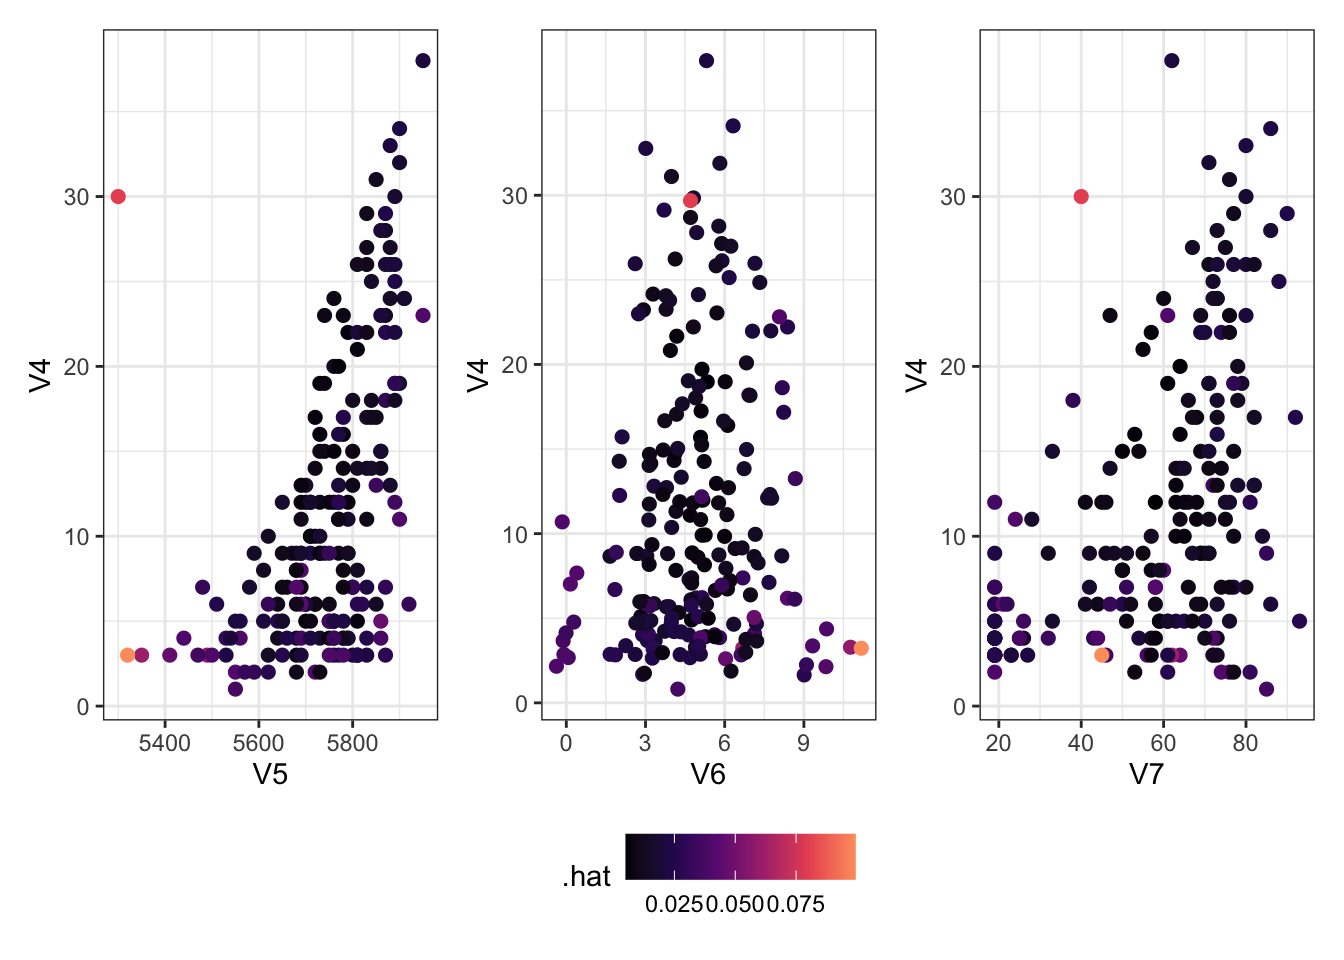
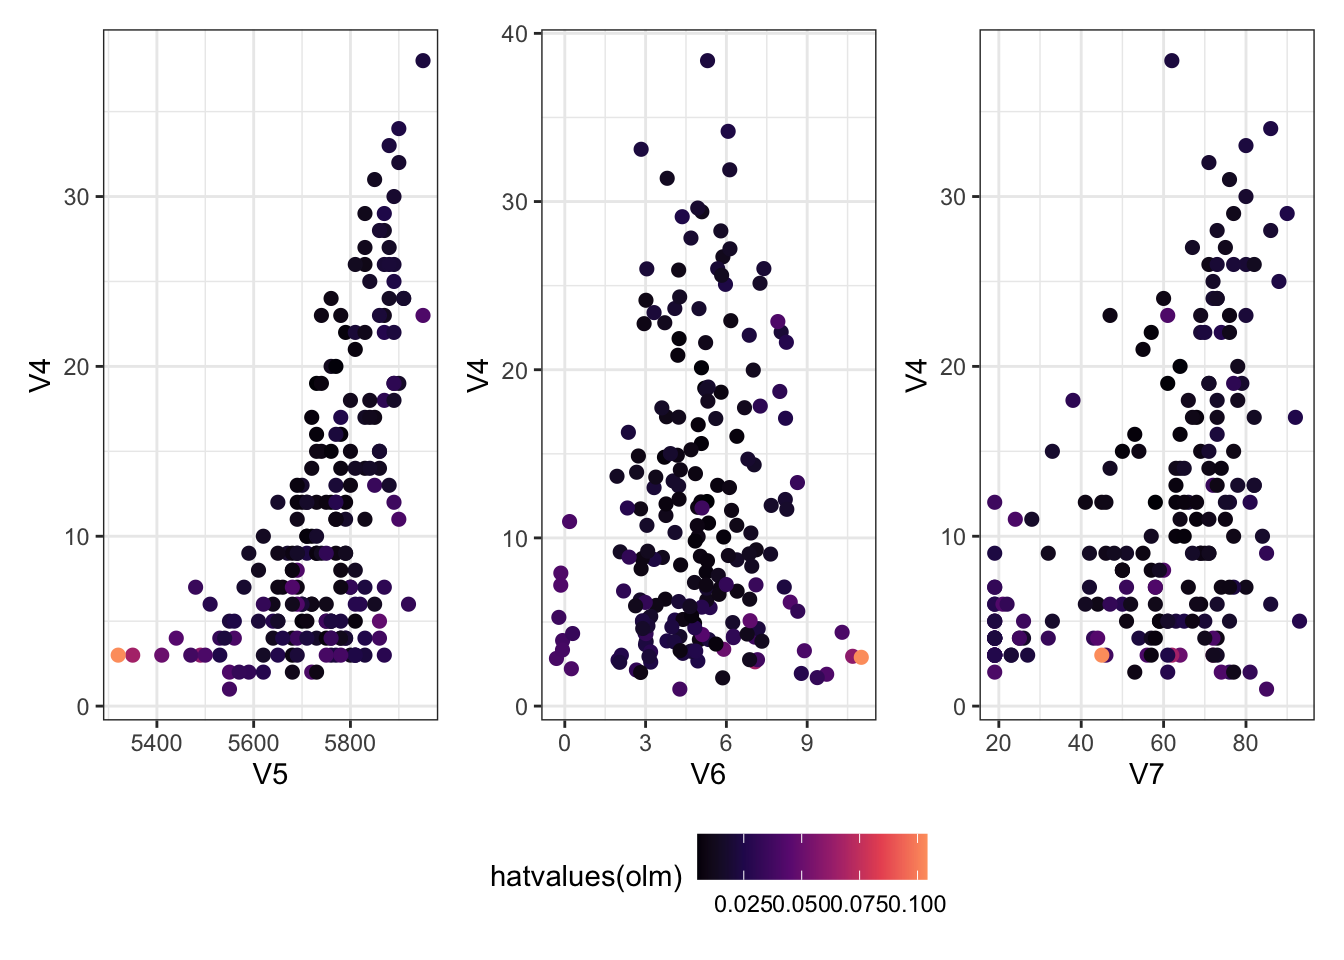
Set seeds for stable rendering; re-render

diff --git a/docs/Lb11-R_hat_resids_cook.html b/docs/Lb11-R_hat_resids_cook.html
@@ -512,7 +512,7 @@ Volvo 142E             1</code></pre>
 <div class="sourceCode cell-code" id="cb19"><pre class="sourceCode r code-with-copy"><code class="sourceCode r"><span id="cb19-1"><a href="#cb19-1" aria-hidden="true" tabindex="-1"></a><span class="fu">par</span>(<span class="at">mfrow =</span> <span class="fu">c</span>(<span class="dv">2</span>, <span class="dv">2</span>))</span>
 <span id="cb19-2"><a href="#cb19-2" aria-hidden="true" tabindex="-1"></a><span class="fu">plot</span>(mylm) <span class="co"># ?plot.lm</span></span></code><button title="Copy to Clipboard" class="code-copy-button"><i class="bi"></i></button></pre></div>
 <div class="cell-output-display">
-<p><img src="Lb11-R_hat_resids_cook_files/figure-html/unnamed-chunk-6-1.png" class="img-fluid" width="672"></p>
+<p><img src="Lb11-R_hat_resids_cook_files/figure-html/unnamed-chunk-7-1.png" class="img-fluid" width="672"></p>
 </div>
 </div>
 <p>You can access individual plots with the <code>which</code> argument.</p>
@@ -520,7 +520,7 @@ Volvo 142E             1</code></pre>
 <div class="sourceCode cell-code" id="cb20"><pre class="sourceCode r code-with-copy"><code class="sourceCode r"><span id="cb20-1"><a href="#cb20-1" aria-hidden="true" tabindex="-1"></a><span class="fu">par</span>(<span class="at">mfrow =</span> <span class="fu">c</span>(<span class="dv">2</span>, <span class="dv">3</span>))</span>
 <span id="cb20-2"><a href="#cb20-2" aria-hidden="true" tabindex="-1"></a><span class="fu">plot</span>(mylm, <span class="at">which =</span> <span class="dv">1</span><span class="sc">:</span><span class="dv">6</span>)</span></code><button title="Copy to Clipboard" class="code-copy-button"><i class="bi"></i></button></pre></div>
 <div class="cell-output-display">
-<p><img src="Lb11-R_hat_resids_cook_files/figure-html/unnamed-chunk-7-1.png" class="img-fluid" width="672"></p>
+<p><img src="Lb11-R_hat_resids_cook_files/figure-html/unnamed-chunk-8-1.png" class="img-fluid" width="672"></p>
 </div>
 </div>
 <p>99% of the time, the default plots are the ones you’ll want to look at. For teaching purposes, we’ll look at a few extra.</p>
@@ -573,7 +573,7 @@ Volvo 142E             1</code></pre>
 <span id="cb24-12"><a href="#cb24-12" aria-hidden="true" tabindex="-1"></a>    <span class="fu">geom_point</span>()</span>
 <span id="cb24-13"><a href="#cb24-13" aria-hidden="true" tabindex="-1"></a>g5 <span class="sc">+</span> g6 <span class="sc">+</span> g7</span></code><button title="Copy to Clipboard" class="code-copy-button"><i class="bi"></i></button></pre></div>
 <div class="cell-output-display">
-<p><img src="Lb11-R_hat_resids_cook_files/figure-html/unnamed-chunk-9-1.png" class="img-fluid" width="672"></p>
+<p><img src="Lb11-R_hat_resids_cook_files/figure-html/unnamed-chunk-10-1.png" class="img-fluid" width="672"></p>
 </div>
 </div>
 <p>Now let’s check some residuals!</p>
@@ -595,7 +595,7 @@ Volvo 142E             1</code></pre>
 <span id="cb25-8"><a href="#cb25-8" aria-hidden="true" tabindex="-1"></a>        <span class="fu">geom_point</span>(<span class="at">size =</span> <span class="dv">2</span>) <span class="sc">+</span></span>
 <span id="cb25-9"><a href="#cb25-9" aria-hidden="true" tabindex="-1"></a>        <span class="fu">geom_hline</span>(<span class="at">yintercept =</span> <span class="dv">0</span>, <span class="at">colour =</span> <span class="st">"grey"</span>)</span></code><button title="Copy to Clipboard" class="code-copy-button"><i class="bi"></i></button></pre></div>
 <div class="cell-output-display">
-<p><img src="Lb11-R_hat_resids_cook_files/figure-html/unnamed-chunk-10-1.png" class="img-fluid" width="672"></p>
+<p><img src="Lb11-R_hat_resids_cook_files/figure-html/unnamed-chunk-11-1.png" class="img-fluid" width="672"></p>
 </div>
 </div>
 <p>Which ones have a large hat value?</p>
@@ -615,7 +615,7 @@ Volvo 142E             1</code></pre>
 <span id="cb26-12"><a href="#cb26-12" aria-hidden="true" tabindex="-1"></a>    <span class="fu">scale_colour_viridis_c</span>(<span class="at">option =</span> <span class="dv">2</span>, <span class="at">end =</span> <span class="fl">0.8</span>) <span class="sc">&amp;</span></span>
 <span id="cb26-13"><a href="#cb26-13" aria-hidden="true" tabindex="-1"></a>    <span class="fu">theme</span>(<span class="at">legend.position =</span> <span class="st">"bottom"</span>)</span></code><button title="Copy to Clipboard" class="code-copy-button"><i class="bi"></i></button></pre></div>
 <div class="cell-output-display">
-<p><img src="Lb11-R_hat_resids_cook_files/figure-html/unnamed-chunk-11-1.png" class="img-fluid" width="672"></p>
+<p><img src="Lb11-R_hat_resids_cook_files/figure-html/unnamed-chunk-12-1.png" class="img-fluid" width="672"></p>
 </div>
 </div>
 </section>
@@ -642,7 +642,7 @@ Volvo 142E             1</code></pre>
 <span id="cb27-17"><a href="#cb27-17" aria-hidden="true" tabindex="-1"></a>    <span class="fu">scale_colour_viridis_c</span>(<span class="at">option =</span> <span class="dv">2</span>, <span class="at">end =</span> <span class="fl">0.8</span>) <span class="sc">&amp;</span></span>
 <span id="cb27-18"><a href="#cb27-18" aria-hidden="true" tabindex="-1"></a>    <span class="fu">theme</span>(<span class="at">legend.position =</span> <span class="st">"bottom"</span>)</span></code><button title="Copy to Clipboard" class="code-copy-button"><i class="bi"></i></button></pre></div>
 <div class="cell-output-display">
-<p><img src="Lb11-R_hat_resids_cook_files/figure-html/unnamed-chunk-12-1.png" class="img-fluid" width="672"></p>
+<p><img src="Lb11-R_hat_resids_cook_files/figure-html/unnamed-chunk-13-1.png" class="img-fluid" width="672"></p>
 </div>
 </div>
 </section>
@@ -652,7 +652,7 @@ Volvo 142E             1</code></pre>
 <div class="sourceCode cell-code" id="cb28"><pre class="sourceCode r code-with-copy"><code class="sourceCode r"><span id="cb28-1"><a href="#cb28-1" aria-hidden="true" tabindex="-1"></a><span class="fu">par</span>(<span class="at">mfrow =</span> <span class="fu">c</span>(<span class="dv">2</span>, <span class="dv">2</span>), <span class="at">mar =</span> <span class="fu">rep</span>(<span class="dv">2</span>, <span class="dv">4</span>))</span>
 <span id="cb28-2"><a href="#cb28-2" aria-hidden="true" tabindex="-1"></a><span class="fu">plot</span>(<span class="fu">lm</span>(V4 <span class="sc">~</span> ., <span class="at">data =</span> newzone))</span></code><button title="Copy to Clipboard" class="code-copy-button"><i class="bi"></i></button></pre></div>
 <div class="cell-output-display">
-<p><img src="Lb11-R_hat_resids_cook_files/figure-html/unnamed-chunk-13-1.png" class="img-fluid" width="672"></p>
+<p><img src="Lb11-R_hat_resids_cook_files/figure-html/unnamed-chunk-14-1.png" class="img-fluid" width="672"></p>
 </div>
 <div class="sourceCode cell-code" id="cb29"><pre class="sourceCode r code-with-copy"><code class="sourceCode r"><span id="cb29-1"><a href="#cb29-1" aria-hidden="true" tabindex="-1"></a>newzone[<span class="fu">row.names</span>(newzone) <span class="sc">%in%</span> <span class="fu">c</span>(<span class="dv">1</span>, <span class="dv">58</span>, <span class="dv">243</span>), ]</span></code><button title="Copy to Clipboard" class="code-copy-button"><i class="bi"></i></button></pre></div>
 <div class="cell-output cell-output-stdout">

diff --git a/docs/L14-Nonlinear.html b/docs/L14-Nonlinear.html
@@ -392,7 +392,7 @@ y = 2 + \frac{1}{5}x^2 - 8\log(x) - 0.005x^3 + 20\sin\left(\frac{x}{2}\right) + 
 </div><div class="column" style="width:50%;">
 <div class="cell">
 <div class="cell-output-display">
-<p><img src="L14-Nonlinear_files/figure-html/unnamed-chunk-1-1.png" class="img-fluid" width="432"></p>
+<p><img src="L14-Nonlinear_files/figure-html/unnamed-chunk-2-1.png" class="img-fluid" width="432"></p>
 </div>
 </div>
 </div>
@@ -438,7 +438,7 @@ x_1 = x;\; x_2 = x^2;\; x_3 = x^3;\;...
 </div><div class="column" style="width:50%;">
 <div class="cell">
 <div class="cell-output-display">
-<p><img src="L14-Nonlinear_files/figure-html/unnamed-chunk-2-1.png" class="img-fluid" width="432"></p>
+<p><img src="L14-Nonlinear_files/figure-html/unnamed-chunk-3-1.png" class="img-fluid" width="432"></p>
 </div>
 </div>
 </div>
@@ -479,7 +479,7 @@ y = \beta_2x^2
 </div><div class="column" style="width:50%;">
 <div class="cell">
 <div class="cell-output-display">
-<p><img src="L14-Nonlinear_files/figure-html/unnamed-chunk-4-1.png" class="img-fluid" width="432"></p>
+<p><img src="L14-Nonlinear_files/figure-html/unnamed-chunk-5-1.png" class="img-fluid" width="432"></p>
 </div>
 </div>
 </div>
@@ -513,7 +513,7 @@ Model 2: dist ~ x1 + x2
 <p>True model: <span class="math inline">\(f(x) = 2 + 25x + 5x^2 - x^3\)</span> (cubic), Var(<span class="math inline">\(\epsilon\)</span>) = 40</p>
 <div class="cell">
 <div class="cell-output-display">
-<p><img src="L14-Nonlinear_files/figure-html/unnamed-chunk-6-1.png" class="img-fluid" width="672"></p>
+<p><img src="L14-Nonlinear_files/figure-html/unnamed-chunk-7-1.png" class="img-fluid" width="672"></p>
 </div>
 </div>
 </section>

diff --git a/docs/L05-General_Regression.html b/docs/L05-General_Regression.html
@@ -543,7 +543,7 @@ F = \frac{MS(Reg|\hat\beta_0)}{MSE} = \frac{SS(Reg|\hat\beta_0)/(p-1)}{SSE/(n-p)
 <div class="sourceCode cell-code" id="cb8"><pre class="sourceCode r code-with-copy"><code class="sourceCode r"><span id="cb8-1"><a href="#cb8-1" aria-hidden="true" tabindex="-1"></a><span class="fu">plot</span>(mpg <span class="sc">~</span> disp, <span class="at">data =</span> mtcars)</span>
 <span id="cb8-2"><a href="#cb8-2" aria-hidden="true" tabindex="-1"></a><span class="fu">abline</span>(<span class="fu">lm</span>(mpg <span class="sc">~</span> disp, <span class="at">data =</span> mtcars))</span></code><button title="Copy to Clipboard" class="code-copy-button"><i class="bi"></i></button></pre></div>
 <div class="cell-output-display">
-<p><img src="L05-General_Regression_files/figure-html/unnamed-chunk-3-1.png" class="img-fluid" width="384"></p>
+<p><img src="L05-General_Regression_files/figure-html/unnamed-chunk-4-1.png" class="img-fluid" width="384"></p>
 </div>
 </div>
 </div>
@@ -739,7 +739,7 @@ R^2 = \frac{SS(Reg|\hat\beta_0)}{Y^TY - SS(\beta_0)} = \frac{\sum(\hat y_i - \ba
 </div><div class="column" style="width:40%;">
 <div class="cell">
 <div class="cell-output-display">
-<p><img src="L05-General_Regression_files/figure-html/unnamed-chunk-7-1.png" class="img-fluid" width="384"></p>
+<p><img src="L05-General_Regression_files/figure-html/unnamed-chunk-8-1.png" class="img-fluid" width="384"></p>
 </div>
 </div>
 </div>

diff --git a/docs/Lb12-Corr_in_Betas.html b/docs/Lb12-Corr_in_Betas.html
@@ -367,7 +367,7 @@ pre > code.sourceCode > span > a:first-child::before { text-decoration: underlin
 <span id="cb1-22"><a href="#cb1-22" aria-hidden="true" tabindex="-1"></a><span class="fu">plot</span>(betacs[, <span class="fu">c</span>(<span class="dv">1</span>,<span class="dv">3</span>)])</span>
 <span id="cb1-23"><a href="#cb1-23" aria-hidden="true" tabindex="-1"></a><span class="fu">plot</span>(betacs[, <span class="fu">c</span>(<span class="dv">2</span>,<span class="dv">3</span>)])</span></code><button title="Copy to Clipboard" class="code-copy-button"><i class="bi"></i></button></pre></div>
 <div class="cell-output-display">
-<p><img src="Lb12-Corr_in_Betas_files/figure-html/unnamed-chunk-1-1.png" class="img-fluid" width="672"></p>
+<p><img src="Lb12-Corr_in_Betas_files/figure-html/unnamed-chunk-2-1.png" class="img-fluid" width="672"></p>
 </div>
 </div>
 

diff --git a/docs/L12-Extra_Topics.html b/docs/L12-Extra_Topics.html
@@ -375,7 +375,7 @@ V(\hat{\underline\beta}^c) &amp;= \frac{\sigma^2}{nS_{X'X'}}\begin{bmatrix}\sum 
 <p>Simulations with same data, but one uses centered data (code in L02 Rmd).</p>
 <div class="cell">
 <div class="cell-output-display">
-<p><img src="L12-Extra_Topics_files/figure-html/unnamed-chunk-1-1.png" class="img-fluid" width="480"></p>
+<p><img src="L12-Extra_Topics_files/figure-html/unnamed-chunk-2-1.png" class="img-fluid" width="480"></p>
 </div>
 </div>
 </div>
